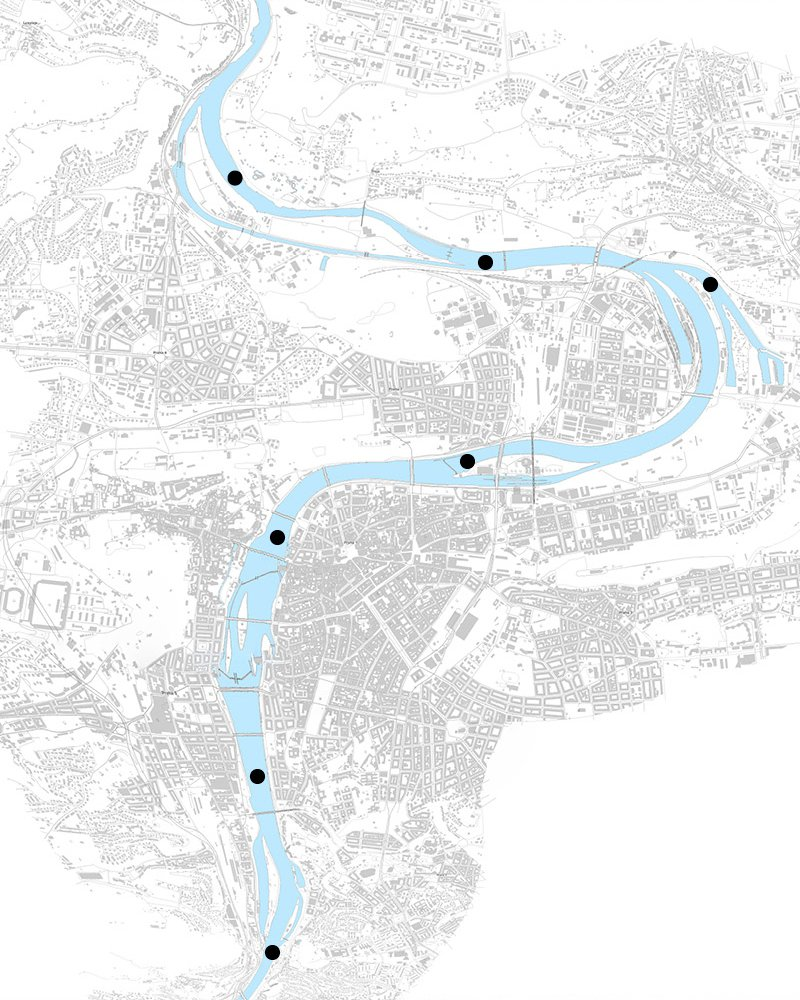
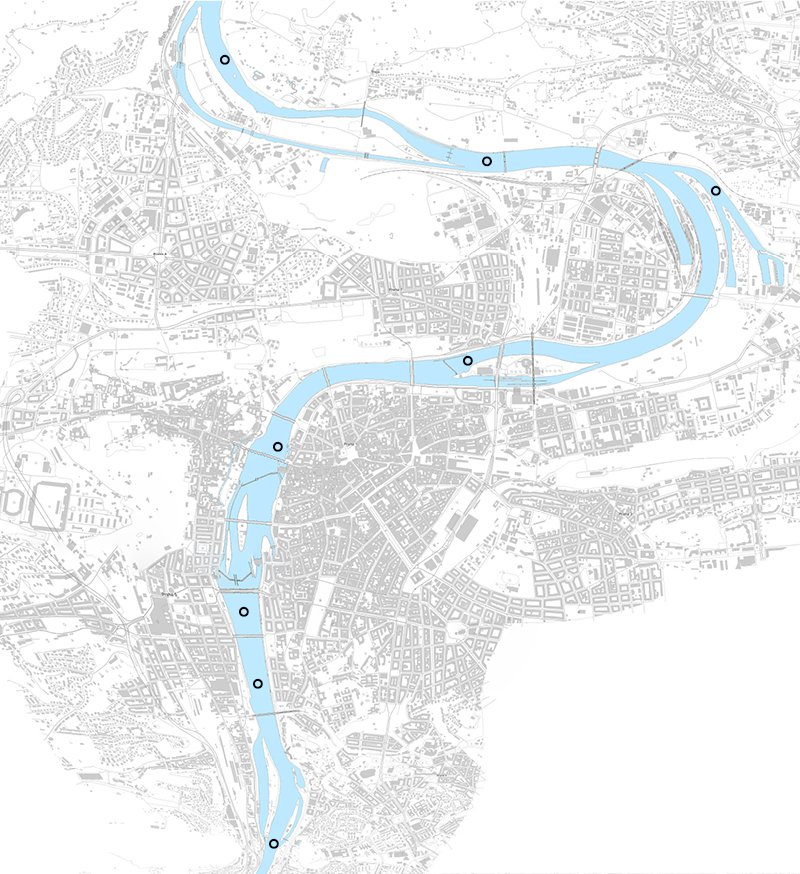
updates

diff --git a/index.html b/index.html
@@ -34,7 +34,7 @@
         <article>
             <header id="plovarna">
                 <h1>PLOVÁRNA NA VLTAVĚ</h1>
-                <address>by SPACE FACTORY</address>
+                <address>od SPACE FACTORY</address>
                 <p>VIZE PRO PRAHU</p>
             </header>
 
@@ -119,14 +119,35 @@
             <section id="space-factory" class="vcard">
                 <h1 class="fn org">SPACE FACTORY</h1>
                 <ul id="authors">
-                    <li class="vcard"><address class="fn">Ing. arch. Andrea Kubná</address></li>
-                    <li class="vcard"><address class="fn">Ing. arch. Ondřej Lipenský</address></li>
-                    <li class="vcard"><address class="fn">Ing. arch. Michal Volf</address></li>
+                    <li class="vcard"><address class="fn">Andrea Kubná</address></li>
+                    <li class="vcard"><address class="fn">Ondřej Lipenský</address></li>
+                    <li class="vcard"><address class="fn">Michal Volf</address></li>
                 </ul>
 
                 <p class="adr">Creative Gate - Jindřišská pasáž<br /><span class="street-address">Jindřišská 5</span>, <span class="postal-code">110 00</span> <span class="locality">Praha 1</span><br /><span class="tel">+420 723 531 325</span></p>
 
                 <p><a href="mailto:info@plovarna-praha.cz" title="Napište nám email" class="email">info@plovarna-praha.cz</a></p>
+                
+                <div id="map"></div>
+                <script type="text/javascript" src="//maps.googleapis.com/maps/api/js?sensor=false"></script>
+                <script type="text/javascript">
+                $(function() {
+                    var myLatlng = new google.maps.LatLng(50.083221,14.426983);
+                    var myOptions = {
+                        zoom: 15,
+                        center: myLatlng,
+                        mapTypeId: google.maps.MapTypeId.ROADMAP,
+                        disableDefaultUI: true
+                    }
+                    var map = new google.maps.Map(document.getElementById("map"), myOptions);
+                        
+                    var marker = new google.maps.Marker({
+                        position: myLatlng,
+                        map: map,
+                        title:"Space Factory"
+                    });   
+                });
+                </script>
             </section>
 
             <section id="reference">
@@ -147,13 +168,13 @@
         </article>
 
         <div id="navbar"><nav>
-            <a href="#plovarna" title="Plovárna" class="active">Plovárna</a>
-            <a href="#vize" title="Vize">Vize</a>
-            <a href="#parametry" title="Parametry">Parametry</a>
-            <a href="#technologie" title="Technologie">Technologie</a>
-            <a href="#kluziste" title="Kluziště">Kluziště</a>
-            <a href="#lokalita" title="Lokalita">Lokalita</a>
-            <a href="#space-factory" title="Space Factory">Kontakt</a>
+            <a href="#space-factory" title="Space Factory" id="kontakt-nav">KONTAKT</a>
+            <a href="#plovarna" title="Plovárna" class="active">PLOVÁRNA</a>
+            <a href="#vize" title="Vize">VIZE</a>
+            <a href="#parametry" title="Parametry">PARAMETRY</a>
+            <a href="#technologie" title="Technologie">TECHNOLOGIE</a>
+            <a href="#kluziste" title="Kluziště">KLUZIŠTĚ</a>
+            <a href="#lokalita" title="Lokalita">LOKALITA</a>
         </nav></div>
 
         <div id="fb-root"></div>

diff --git a/static/style.css b/static/style.css
@@ -25,8 +25,8 @@ body {
     margin: 0;
     padding: 0;
     text-align: center;
-    font-family: 'NudistaMedium' sans-serif;
-    font-size: 62.5%;
+    font-family: 'NudistaMedium', sans-serif;
+    font-size: 13px;
     background-color: #e4e4e4;
 }
 
@@ -79,11 +79,11 @@ figure img {
 }
 
 h1 {
-    font-size: 2.4em;
+    font-size: 21px;
 }
 
 p, li {
-    font-size: 1.1em;
+    font-size: 1em;
 }
 
 section > h1 {
@@ -131,6 +131,7 @@ section {
 
 #parametry {
     background-image: url('parametry_bg.jpg');
+    height: 833px;
 }
 
 
@@ -150,11 +151,11 @@ section {
 #lokalita {
     background-image: url('lokalita_bg.jpg');
     padding: 30px 15px;
-    height: 1040px;
+    height: 910px;
 }
 
 #t1, #t2, #t3 {
-    width: 150px;
+    width: 160px;
     margin: 0;
     padding: 0;
     position: absolute;
@@ -162,7 +163,7 @@ section {
 
 #t1 { left: 270px; top: 70px; }
 #t2 { left: 270px; top: 280px; }
-#t3 { left: 500px; top: 70px; }
+#t3 { left: 490px; top: 70px; }
 
 #teaser {
     height: 401px;
@@ -175,20 +176,28 @@ section {
     padding: 282px 0 0;
     color: #fff;
     font-family: 'NudistaSemiBold', sans-serif;
-    font-size: 1.8em;
+    font-size: 18px;
     text-shadow: #000 0 0 3px;
 }
 
 #space-factory {
     height: 200px;
     padding: 0 370px 0 0;
-    background: #c7c8ca url('mapa.jpg') no-repeat 100% 0;
+    background: #c7c8ca;
+    position: relative;
+}
+
+#map {
+    position: absolute;
+    top: 0;
+    right: 0;
+    width: 430px;
+    height: 200px;
 }
 
 #space-factory > h1 {
     margin: 0;
-    padding: 20px 15px 18px;
-    font-size: 2em;
+    padding: 20px 15px 13px;
 }
 
 #space-factory ul {
@@ -206,7 +215,7 @@ section {
 }
 
 #space-factory > p {
-    margin-top: 13px;
+    margin-top: 8px;
     padding: 0 15px;
 }
 
@@ -246,8 +255,7 @@ section {
     margin: 0;
     padding: 0;
     color: #04adf2;
-    font-family: 'NudistaSemiBold' sans-serif;
-    font-size: 2.55em;
+    font-family: 'NudistaSemiBold', sans-serif;
     font-weight: bold;
 }
 
@@ -255,16 +263,15 @@ section {
     margin: 3px 0 0;
     padding: 0;
     color: #04adf2;
-    font-size: 1.5em;
     font-style: normal;
 }
 
 #plovarna > p {
     position: absolute;
-    top: 18px;
+    top: 15px;
     right: 14px;
-    font-family: 'NudistaSemiBold' sans-serif;
-    font-size: 1.8em;
+    font-family: 'NudistaSemiBold', sans-serif;
+    font-size: 18px;
 }
 
 #social {
@@ -277,13 +284,13 @@ section {
 #social > p {
     margin: 0;
     padding: 15px 15px 0;
-    font-size: 1.8em;
+    font-size: 18px;
 }
 
 #profiles {
     float: right;
     padding: 0 15px 15px;
-    font-size: 1.3em;
+    font-size: 13px;
 }
 
 #profiles > a {
@@ -308,4 +315,8 @@ section {
 #space-factory .email {
     color: #000;
     font-weight: bold;
+}
+
+#kontakt-nav {
+    float: right;
 }
